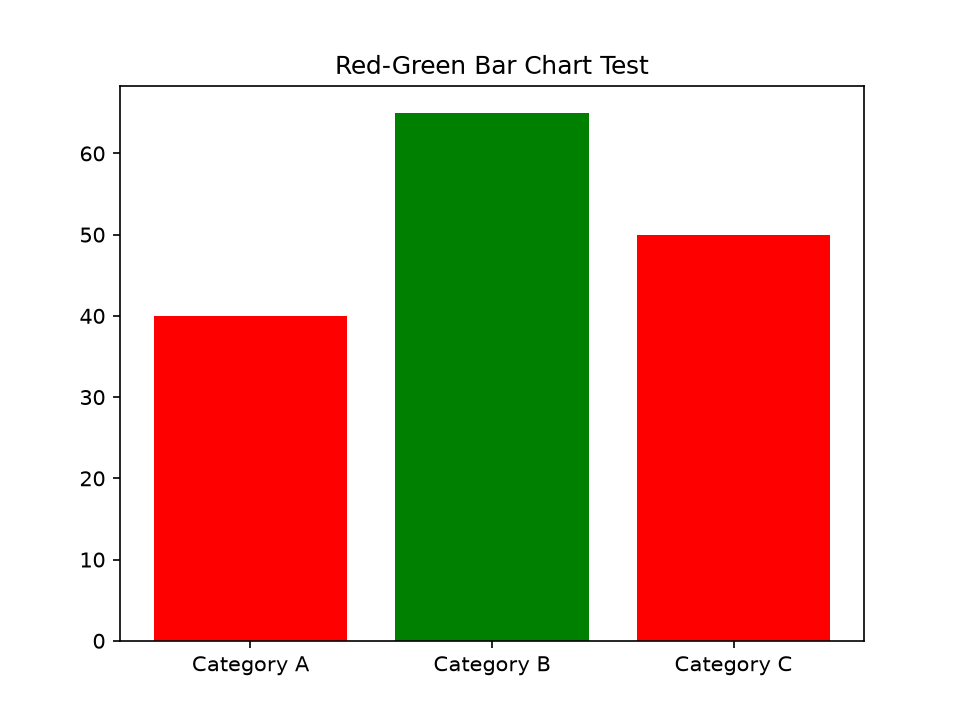
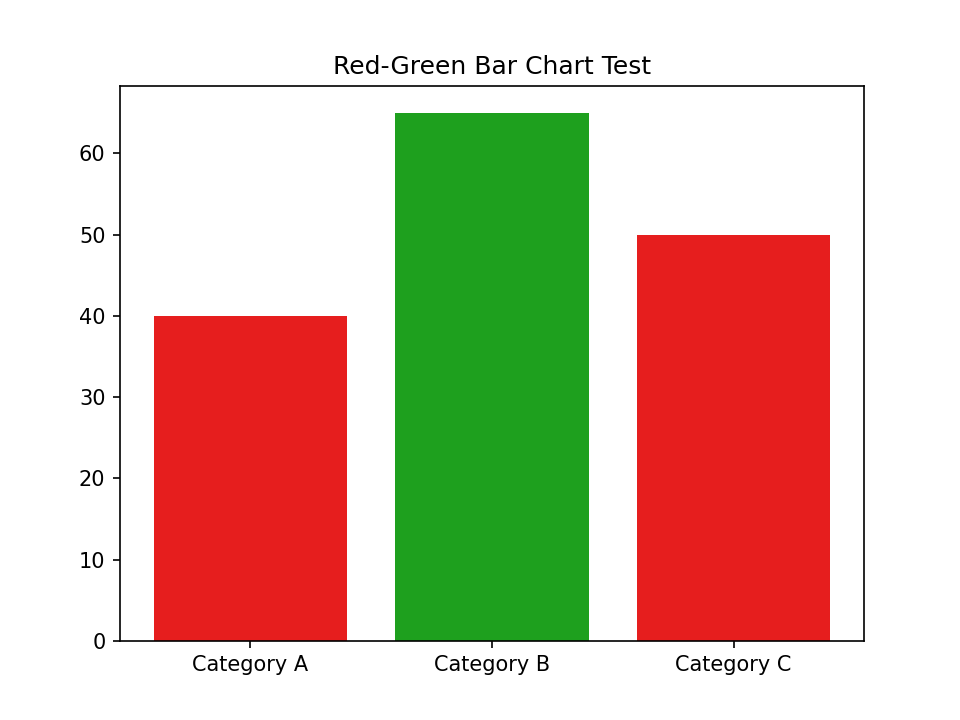
$(cat <<'EOF'

diff --git a/backend/app/modules/remapping.py b/backend/app/modules/remapping.py
@@ -1,0 +1,82 @@
+import numpy as np
+from skimage.color import rgb2lab, lab2rgb, deltaE_ciede2000
+from app.modules.cvd_simulation import simulate_cvd_on_colours
+
+
+def _simulated_delta_e(lab_a, lab_b, cvd_type, severity):
+    """Convert two Lab colours to RGB, simulate CVD, convert back to Lab, measure ΔE."""
+    rgb_pair = lab2rgb(np.array([[lab_a], [lab_b]])).reshape(2, 3)
+    rgb_pair_uint8 = np.clip(rgb_pair * 255, 0, 255).astype(np.uint8)
+    simulated_rgb = simulate_cvd_on_colours(rgb_pair_uint8, cvd_type, severity)
+    simulated_lab = rgb2lab(simulated_rgb.astype(np.float64).reshape(1, 2, 3) / 255.0).reshape(2, 3)
+    return deltaE_ciede2000(simulated_lab[0], simulated_lab[1])
+
+
+def compute_cluster_shifts(
+    cluster_centres_rgb: np.ndarray,
+    confusable_pairs: list,
+    memory_labels: list,
+    cvd_type: str = "deuteranomaly",
+    severity: int = 100,
+    target_delta_e: float = 12.0,   # was 5.0 — clearly visible, still natural
+    max_shift: float = 40.0,        # was 25.0 — headroom to reach the higher target
+    protected_max_shift: float = 8.0,
+):
+    """
+    For each confusable pair, compute a lightness shift that resolves the
+    confusion, respecting memory-colour protection.
+
+    Returns: dict {cluster_index: [delta_L, delta_a, delta_b]}
+    """
+    k = cluster_centres_rgb.shape[0]
+    shifts = {i: np.zeros(3) for i in range(k)}
+
+    centres_lab = rgb2lab(cluster_centres_rgb.astype(np.float64).reshape(1, k, 3) / 255.0).reshape(k, 3)
+
+    for pair in confusable_pairs:
+        i, j = pair["index_a"], pair["index_b"]
+        lab_i, lab_j = centres_lab[i].copy(), centres_lab[j].copy()
+
+        is_protected = memory_labels[i] != "other" or memory_labels[j] != "other"
+        allowed_max = protected_max_shift if is_protected else max_shift
+
+        direction = 1.0 if lab_i[0] >= lab_j[0] else -1.0
+        step = 1.0
+        total_shift = 0.0
+
+        while total_shift < allowed_max:
+            total_shift += step
+            trial_i = lab_i.copy()
+            trial_j = lab_j.copy()
+            trial_i[0] = np.clip(lab_i[0] + direction * total_shift / 2, 0, 100)
+            trial_j[0] = np.clip(lab_j[0] - direction * total_shift / 2, 0, 100)
+
+            de_sim = _simulated_delta_e(trial_i, trial_j, cvd_type, severity)
+            if de_sim >= target_delta_e:
+                break
+
+        # Record the shift vector (only L changes) for each cluster involved
+        shifts[i] += np.array([direction * total_shift / 2, 0, 0])
+        shifts[j] += np.array([-direction * total_shift / 2, 0, 0])
+
+    return shifts
+
+
+def apply_shifts_to_image(image_rgb: np.ndarray, pixel_labels: np.ndarray, shifts: dict) -> np.ndarray:
+    """
+    Apply per-cluster Lab shifts to the actual image, pixel by pixel —
+    preserves each pixel's own texture/variation rather than flattening
+    to the cluster's exact representative colour.
+    """
+    img_lab = rgb2lab(image_rgb.astype(np.float64) / 255.0)
+
+    for cluster_idx, shift_vec in shifts.items():
+        if np.allclose(shift_vec, 0):
+            continue
+        mask = (pixel_labels == cluster_idx)
+        img_lab[mask] += shift_vec
+        img_lab[mask, 0] = np.clip(img_lab[mask, 0], 0, 100)
+
+    result_rgb = lab2rgb(img_lab)
+    result_rgb = np.clip(result_rgb * 255, 0, 255).astype(np.uint8)
+    return result_rgb

diff --git a/backend/app/main.py b/backend/app/main.py
@@ -8,6 +8,8 @@ import uuid
 from pathlib import Path
 from app.modules.clustering import cluster_image_colours, rebuild_image_from_clusters
 from app.modules.pair_detection import detect_confusable_pairs
+from app.modules.memory_colour import classify_memory_colours
+from app.modules.remapping import compute_cluster_shifts, apply_shifts_to_image
 
 app = FastAPI()
 
@@ -112,4 +114,58 @@ async def detect_pairs_endpoint(session_id: str, cvd_type: str = "deuteranomaly"
         "num_clusters": int(cluster_centres_rgb.shape[0]),
         "num_confusable_pairs": len(pairs),
         "confusable_pairs": pairs
+    }
+@app.post("/classify-memory-colours/{session_id}")
+async def memory_colour_endpoint(session_id: str):
+    centres_path = RESULTS_DIR / f"{session_id}_cluster_centres.npy"
+    if not centres_path.exists():
+        raise HTTPException(status_code=404, detail="Run clustering first (/cluster/{session_id}).")
+
+    cluster_centres_rgb = np.load(centres_path)
+    labels = classify_memory_colours(cluster_centres_rgb)
+
+    return {
+        "session_id": session_id,
+        "cluster_centres_rgb": cluster_centres_rgb.tolist(),
+        "memory_colour_labels": labels
+    }
+@app.post("/remap/{session_id}")
+async def remap_endpoint(
+    session_id: str,
+    cvd_type: str = "deuteranomaly",
+    severity: int = 100,
+    target_delta_e: float = 12.0,
+):
+    original_path = RESULTS_DIR / f"{session_id}_original.png"
+    centres_path = RESULTS_DIR / f"{session_id}_cluster_centres.npy"
+    labels_path = RESULTS_DIR / f"{session_id}_pixel_labels.npy"
+
+    if not (original_path.exists() and centres_path.exists() and labels_path.exists()):
+        raise HTTPException(status_code=404, detail="Run upload, then clustering first.")
+
+    img_bgr = cv2.imread(str(original_path))
+    img_rgb = cv2.cvtColor(img_bgr, cv2.COLOR_BGR2RGB)
+    cluster_centres_rgb = np.load(centres_path)
+    pixel_labels = np.load(labels_path)
+
+    from app.modules.pair_detection import detect_confusable_pairs
+    from app.modules.memory_colour import classify_memory_colours
+
+    pairs = detect_confusable_pairs(cluster_centres_rgb, cvd_type, severity)
+    memory_labels = classify_memory_colours(cluster_centres_rgb)
+
+    shifts = compute_cluster_shifts(cluster_centres_rgb, pairs, memory_labels, cvd_type, severity, target_delta_e=target_delta_e)
+    remapped_rgb = apply_shifts_to_image(img_rgb, pixel_labels, shifts)
+
+    save_path = RESULTS_DIR / f"{session_id}_remapped.png"
+    remapped_bgr = cv2.cvtColor(remapped_rgb, cv2.COLOR_RGB2BGR)
+    cv2.imwrite(str(save_path), remapped_bgr)
+
+    return {
+        "session_id": session_id,
+        "num_pairs_fixed": len(pairs),
+        "num_protected_pairs": sum(
+            1 for p in pairs if memory_labels[p["index_a"]] != "other" or memory_labels[p["index_b"]] != "other"
+        ),
+        "message": "Remapping complete"
     }

diff --git a/backend/generate_test_charts.py b/backend/generate_test_charts.py
@@ -1,30 +1,39 @@
 import matplotlib.pyplot as plt
 import matplotlib
-matplotlib.use('Agg')  # so it saves without needing a display
+matplotlib.use('Agg')  # saves without needing a display
 
-# Chart 1: simple red vs green bars
+# Confusable red-green pair — verified to simulate to Delta E ~3 under
+# deuteranopia (truly confusable), because they are matched in lightness.
+# matplotlib's default 'red'/'green' do NOT work: default green (0,128,0)
+# is much darker than red, so the lightness gap survives CVD simulation.
+CONFUSABLE_RED = (230/255, 30/255, 30/255)
+CONFUSABLE_GREEN = (30/255, 160/255, 30/255)
+
+# Chart 1: red vs green bars
 fig, ax = plt.subplots()
 ax.bar(['Category A', 'Category B', 'Category C'], [40, 65, 50],
-       color=['red', 'green', 'red'])
+       color=[CONFUSABLE_RED, CONFUSABLE_GREEN, CONFUSABLE_RED])
 ax.set_title('Red-Green Bar Chart Test')
 plt.savefig('../data/sample_images/chart_bars.png', dpi=150)
 plt.close()
 
 # Chart 2: red vs green line chart
 fig, ax = plt.subplots()
-ax.plot([1,2,3,4,5], [10,20,15,25,30], color='red', label='Series 1', linewidth=3)
-ax.plot([1,2,3,4,5], [12,18,20,22,28], color='green', label='Series 2', linewidth=3)
+ax.plot([1, 2, 3, 4, 5], [10, 20, 15, 25, 30],
+        color=CONFUSABLE_RED, label='Series 1', linewidth=3)
+ax.plot([1, 2, 3, 4, 5], [12, 18, 20, 22, 28],
+        color=CONFUSABLE_GREEN, label='Series 2', linewidth=3)
 ax.legend()
 ax.set_title('Red-Green Line Chart Test')
 plt.savefig('../data/sample_images/chart_lines.png', dpi=150)
 plt.close()
 
-# Chart 3: pie chart with red/green slices
+# Chart 3: pie chart with alternating red/green slices
 fig, ax = plt.subplots()
-ax.pie([30, 30, 20, 20], labels=['A','B','C','D'],
-       colors=['red','green','red','green'])
+ax.pie([30, 30, 20, 20], labels=['A', 'B', 'C', 'D'],
+       colors=[CONFUSABLE_RED, CONFUSABLE_GREEN, CONFUSABLE_RED, CONFUSABLE_GREEN])
 ax.set_title('Red-Green Pie Chart Test')
 plt.savefig('../data/sample_images/chart_pie.png', dpi=150)
 plt.close()
 
-print("Charts generated successfully.")
+print("Charts generated successfully with confusable (lightness-matched) colours.")

diff --git a/backend/app/modules/memory_colour.py b/backend/app/modules/memory_colour.py
@@ -1,0 +1,35 @@
+import numpy as np
+import cv2
+
+
+def classify_memory_colours(cluster_centres_rgb: np.ndarray) -> list:
+    """
+    Classify each cluster colour as a protected 'memory colour' (skin, sky, foliage)
+    or 'other', using HSV range rules. Rules are intentionally loose/simple —
+    good enough for a course project, and clearly documented as such.
+
+    Args:
+        cluster_centres_rgb: (K, 3) uint8 array
+
+    Returns:
+        list of K strings: "skin", "sky", "foliage", or "other" — one per cluster
+    """
+    k = cluster_centres_rgb.shape[0]
+    # reshape to a fake 1xK image for cv2's HSV conversion
+    rgb_img = cluster_centres_rgb.reshape(1, k, 3).astype(np.uint8)
+    hsv_img = cv2.cvtColor(rgb_img, cv2.COLOR_RGB2HSV)[0]  # (K, 3): H in [0,179], S,V in [0,255]
+
+    labels = []
+    for i in range(k):
+        h, s, v = hsv_img[i]
+
+        if 0 <= h <= 25 and s >= 30 and v >= 80:
+            labels.append("skin")
+        elif 90 <= h <= 130 and s >= 40 and v >= 80:
+            labels.append("sky")
+        elif 35 <= h <= 85 and s >= 40 and v >= 40:
+            labels.append("foliage")
+        else:
+            labels.append("other")
+
+    return labels
